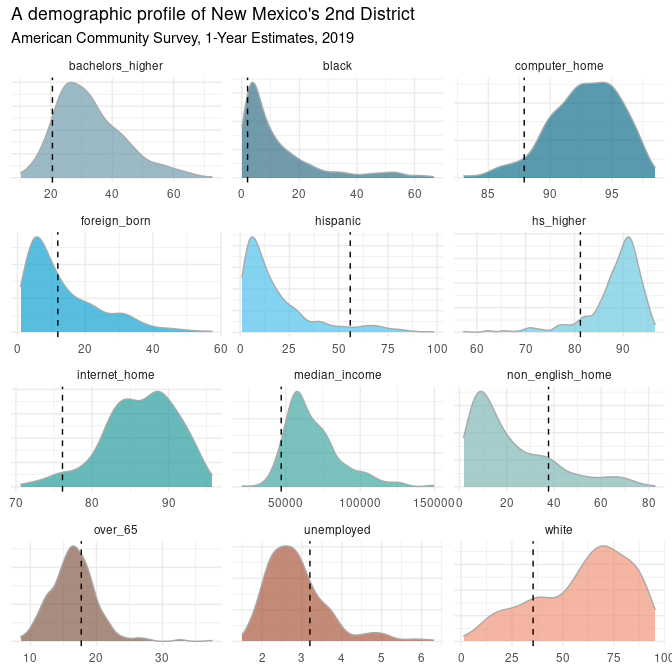
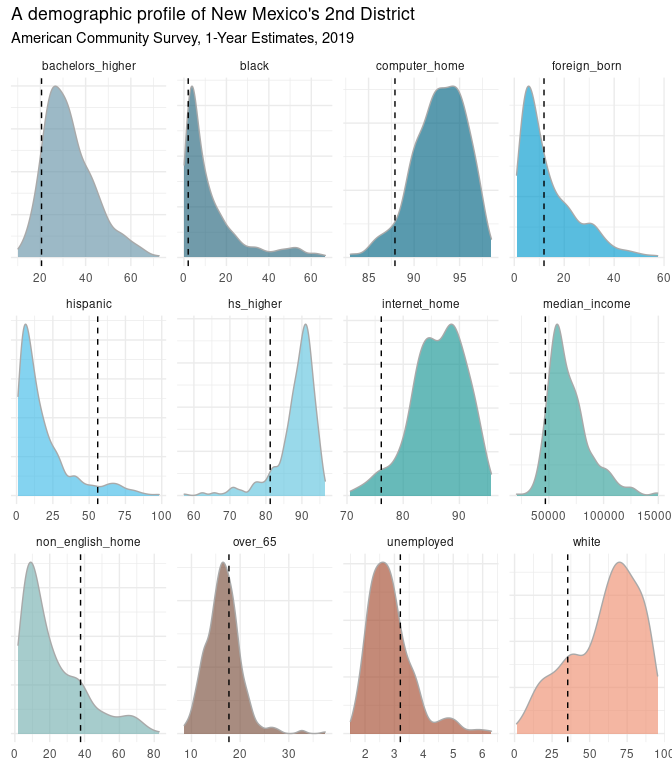
re

diff --git a/all-the-newness.md b/all-the-newness.md
@@ -257,7 +257,7 @@ vvo <- Rvoteview::download_metadata(type = 'members', chamber = 'house') %>%
   filter(congress > 66 & chamber != 'President')
 ```
 
-    ## [1] "/tmp/RtmpGYbl6q/Hall_members.csv"
+    ## [1] "/tmp/RtmpOnzy4J/Hall_members.csv"
 
 ``` r
 house <- vvo %>%
@@ -420,32 +420,32 @@ quicknews::qnews_search_contexts(qorp = qorp,
 </thead>
 <tbody>
 <tr class="odd">
-<td style="text-align: left;">text19525</td>
-<td style="text-align: left;">… , and to place it in the hands of the <code>federal government</code> : or whether we examine the nature and construction of …</td>
+<td style="text-align: left;">text10400</td>
+<td style="text-align: left;">… prays to be continued in the same Office under the <code>Federal Government</code> , Or be appointed one of the land or Tide …</td>
 </tr>
 <tr class="even">
-<td style="text-align: left;">text7502</td>
-<td style="text-align: left;">… blush for their virulent censures of the executive of the <code>federal government</code> , for an opposition to the measures of a foreign …</td>
+<td style="text-align: left;">text26670</td>
+<td style="text-align: left;">… . I have always imagined that the resolution of the <code>federal government</code> to restore vessels , captured by the privateers , fitted …</td>
 </tr>
 <tr class="odd">
-<td style="text-align: left;">text19577</td>
-<td style="text-align: left;">… by a charter proposal . JM apparently suggests that the <code>federal government</code> lacks the power to establish banks . …</td>
+<td style="text-align: left;">text12025</td>
+<td style="text-align: left;">… active friend of the late Revolution , &amp; the present <code>federal Government</code> , and that although I have not had the honor …</td>
 </tr>
 <tr class="even">
-<td style="text-align: left;">text19833</td>
-<td style="text-align: left;">… and a memorial from the Massachusetts legislature proposing that the <code>federal government</code> assume that state’s debt . Mr . Madison observed , …</td>
+<td style="text-align: left;">text20598</td>
+<td style="text-align: left;">… be lodged in this or in that Department of the <code>Federal Government</code> . And we find it expressly vested in the Legislative …</td>
 </tr>
 <tr class="odd">
-<td style="text-align: left;">text14757</td>
-<td style="text-align: left;">… of these United States consists in their Republican form of <code>Federal Government</code> ; as the only legitimate source of this Government is …</td>
+<td style="text-align: left;">text2104</td>
+<td style="text-align: left;">… ? or was the State Government the Horse and the <code>federal Government</code> the Cart ? or was the Town the Horse &amp; …</td>
 </tr>
 <tr class="even">
-<td style="text-align: left;">text12010</td>
-<td style="text-align: left;">… united States having rendered it expedient to resort to the <code>federal Government</code> for such prudent regulations as may best tend to secure …</td>
+<td style="text-align: left;">text19091</td>
+<td style="text-align: left;">… part of our fellow citizens ; the friends of the <code>federal government</code> will evince that spirit of deference and concession for which …</td>
 </tr>
 <tr class="odd">
-<td style="text-align: left;">text16580</td>
-<td style="text-align: left;">… must be convinced , from the recent conduct of the <code>federal government</code> towards him in regard to a most atrocious official calumny …</td>
+<td style="text-align: left;">text19744</td>
+<td style="text-align: left;">… rights of the people ; over the authorities of the <code>confederal government</code> ; and over both the rights and the authorities of …</td>
 </tr>
 </tbody>
 </table>
@@ -653,7 +653,7 @@ base_viz <- gen %>%
                adjust = 1) +
   scale_fill_manual(values = 
                       colorRampPalette(ggthemes::economist_pal()(8))(12)) +
-  facet_wrap(~variable, scale = 'free', nrow = 4)+
+  facet_wrap(~variable, scale = 'free', ncol = 4)+
   theme_minimal() +
   theme(legend.position = "none",
         axis.text.y=element_blank(),
